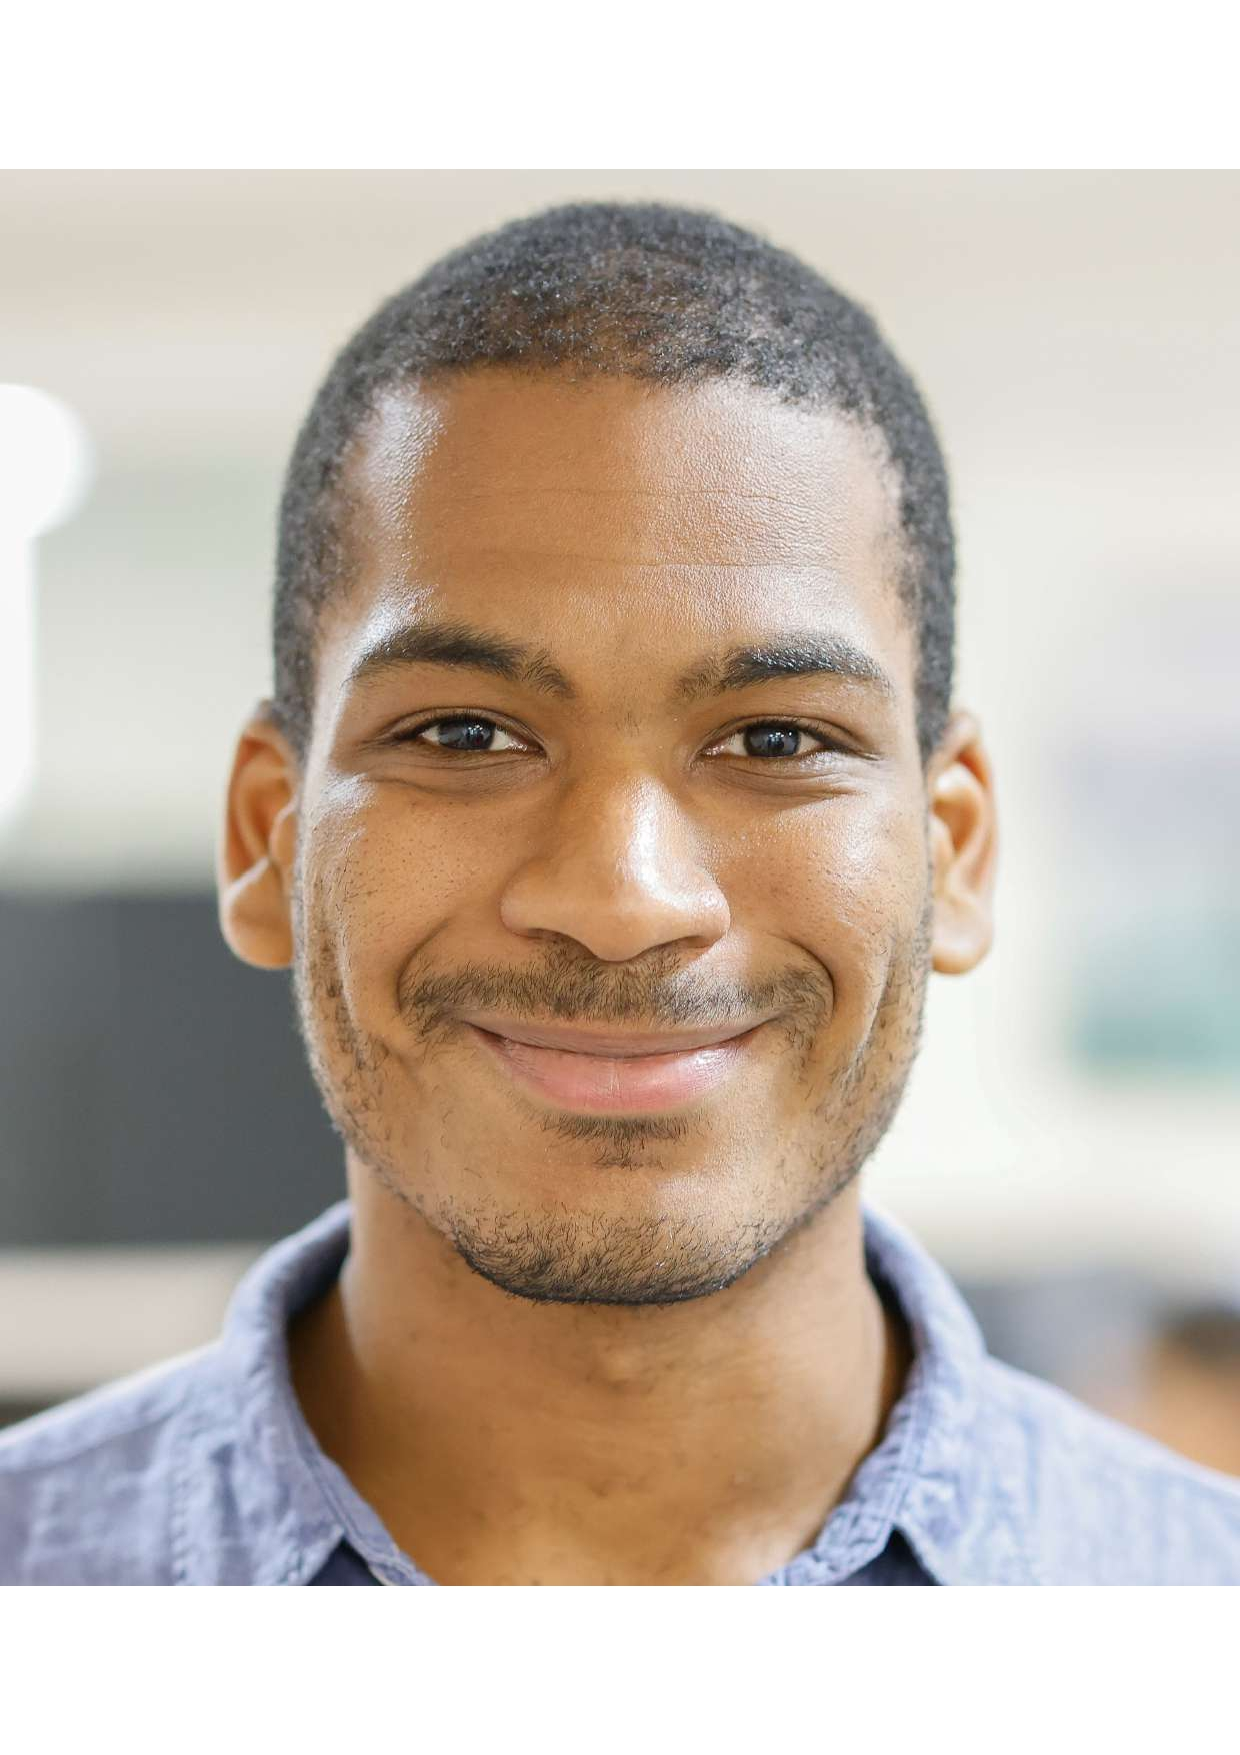
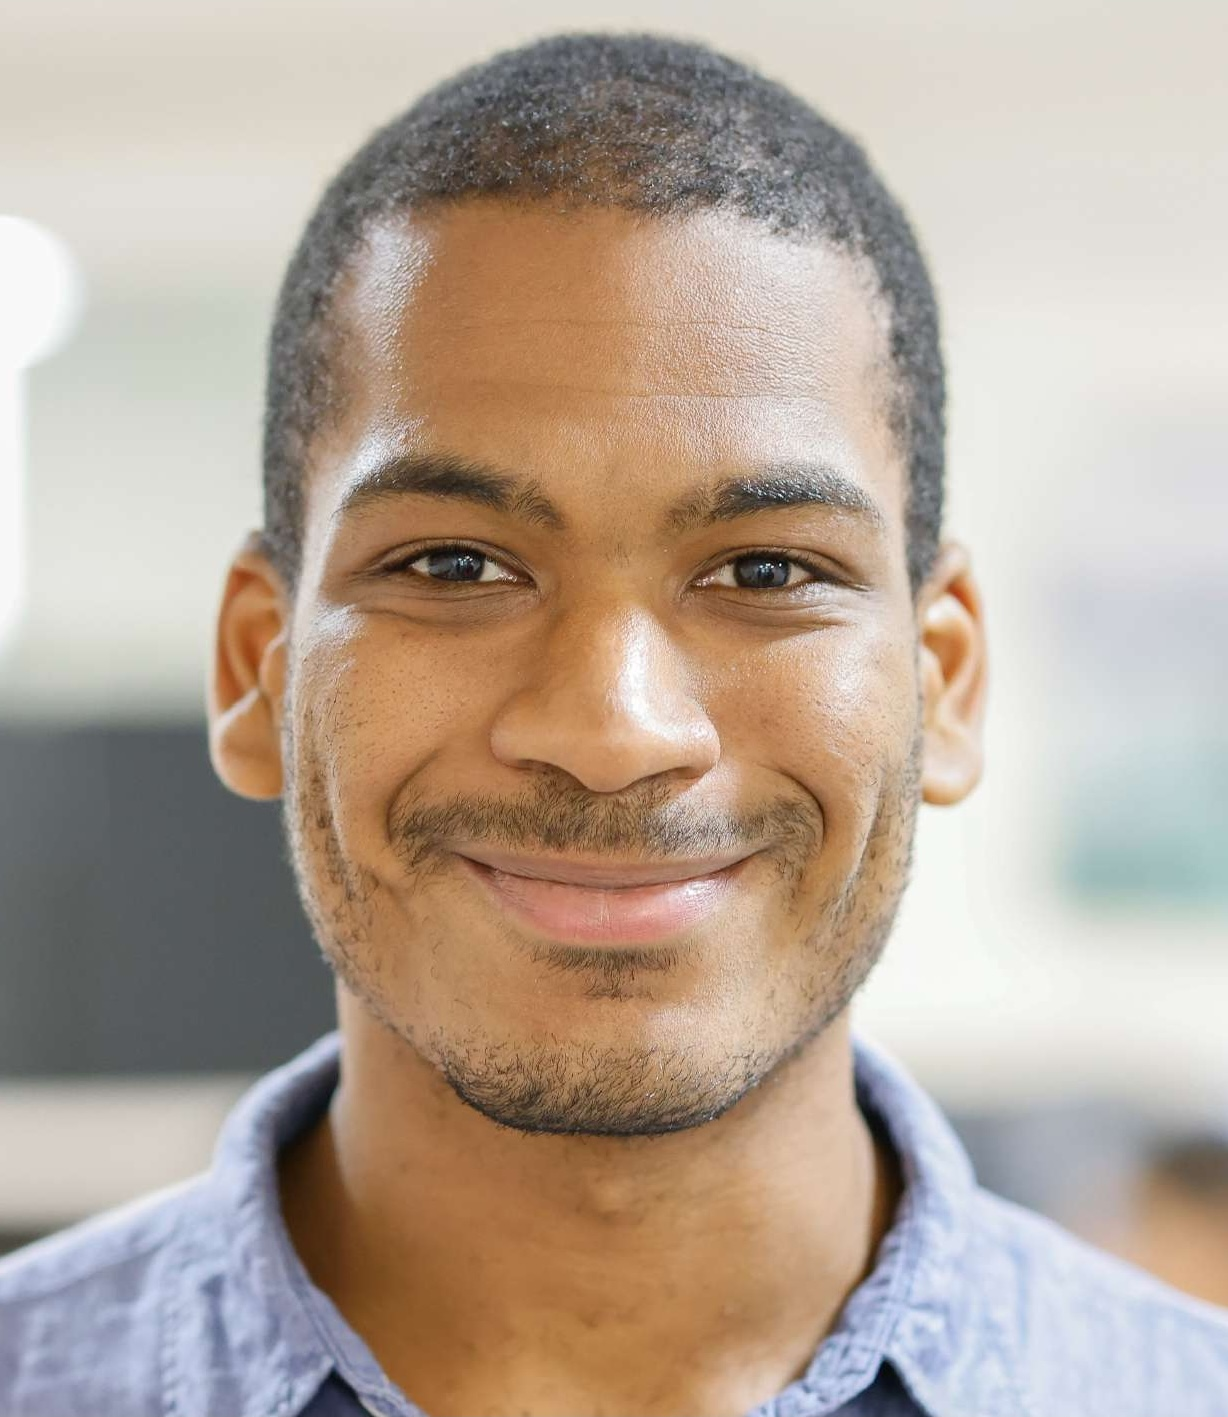
addingRaphaelProfil

diff --git a/content/member/raphael.md b/content/member/raphael.md
@@ -1,0 +1,37 @@
++++
+date = "2024-01-09T13:33:37+00:00"
+id = "raphael"
+interests = ["Bayesian Inference", "Control Theory"]
+name = "Raphaël Trésor"
+portrait = "portraits/raphael.jpg"
+short_bio = "Raphaël Trésor is a PhD candidate in the SPS group at [Eindhoven University of Technology](https://www.tue.nl/en/)’s Electrical Engineering department. "
+title = "Raphael Tresor"
+sort_position = 5.1
+
+[[social]]
+    icon = "envelope"
+    icon_pack = "fa"
+    link = "mailto:r.v.tresor@tue.nl"
+
+[[social]]
+    icon = "linkedin"
+    icon_pack = "fa"
+    link = "https://linkedin.com/in/raphaël-trésor-b104b91a7/"
+
+[[education]]
+    course = "MSc in Energy Physics/Engineering"
+    institution = 'Paris-Saclay University'
+    year = 2021
+
+[[education]]
+    course = "MSc in Probability and Statistics"
+    institution = 'Paris-Saclay (Paris-Sud) University'
+    year = 2020
+
+[[organizations]]
+    name = "TU Eindhoven"
+    role = "PhD candidate"
+
++++
+
+Raaja joined as a guest researcher in April 2023 at the Bayesian Intelligent Autonomous Systems Lab (BIASlab) at Eindhoven University of Technology.
